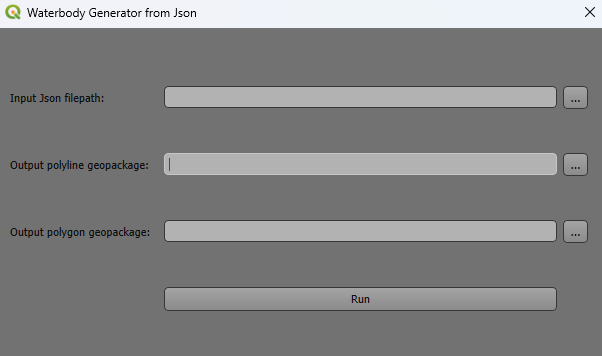
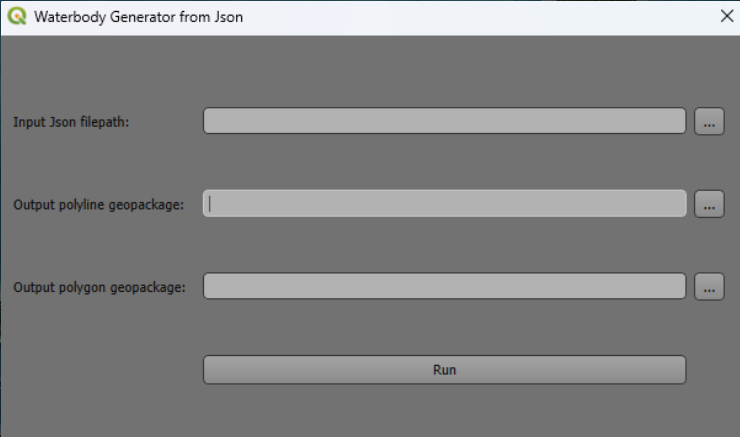
PMO #24 Made App/Tool Gallery a single column, replaced waterbody generator picture to prevent resizing

diff --git a/tool.html b/tool.html
@@ -47,7 +47,7 @@
         </header>
 
         <!-- Gallery of Apps -->
-        <div class="row">
+        <div class="column">
             <!-- App Card 1 -->
             <div class="col s12 m6 l6">
                 <div class="card">

diff --git a/css/style.css b/css/style.css
@@ -111,8 +111,8 @@ body {
 }
 
 .column {
-    width: 40%;
-    height: 40%;
+    width: 50%;
+    height: 50%;
     display: flex;
     flex-direction: column; 
     align-items: center;    
